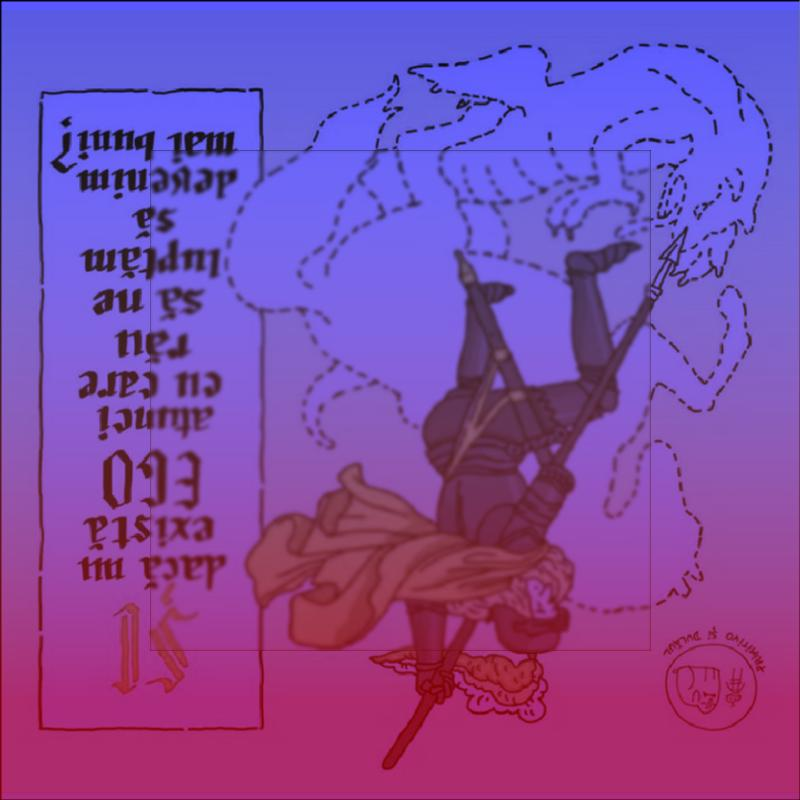
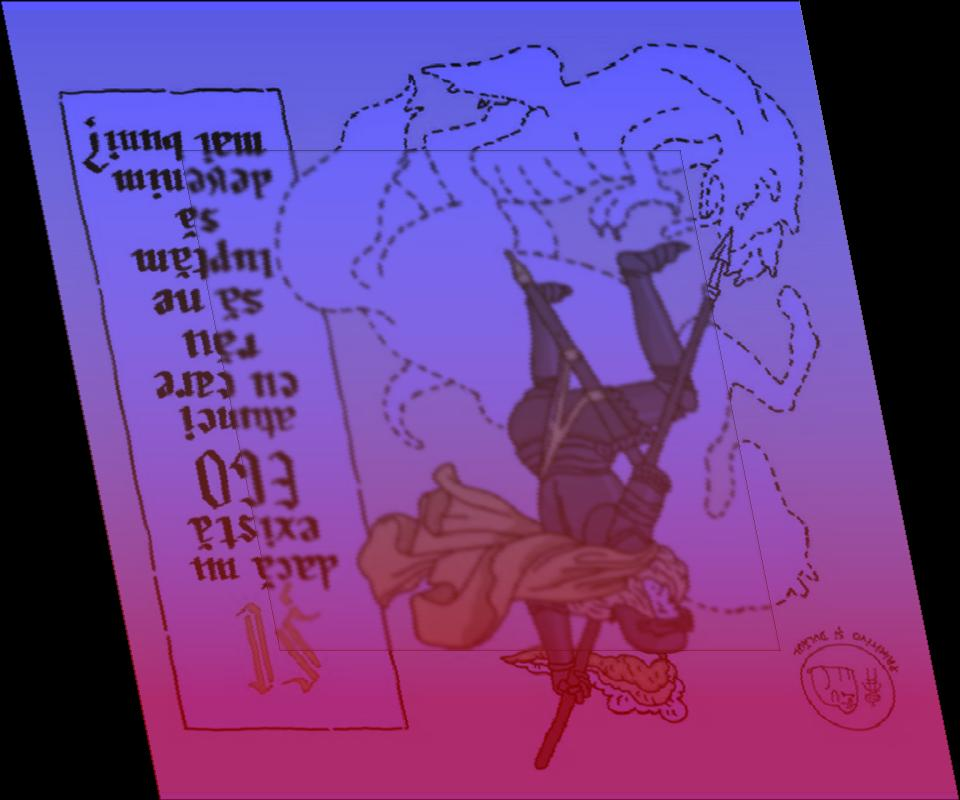
Added horizontal shearing

diff --git a/lib/shear.go b/lib/shear.go
@@ -1,0 +1,57 @@
+package lib
+
+import(
+    "fmt"
+    "image"
+    "image/draw"
+    "image/color"
+    "math"
+    interp "./interpolation"
+)
+
+/**
+    Returns an image sheared with the given shear factor.
+*/
+func Shear(img image.Image, shear float64) (image.Image) {
+    bounds := img.Bounds()
+
+    // calculate some shearing parameters
+    shear_factor := uint32(math.Round(shear * float64(bounds.Max.X - bounds.Min.X) * 2))
+    height := bounds.Max.Y - bounds.Min.Y
+    fmt.Println(bounds.Max.X, "->", bounds.Max.X + int(shear_factor))
+
+    // initialize the new image
+    new_bounds := image.Rect(bounds.Min.X, bounds.Min.Y, bounds.Max.X + int(shear_factor), bounds.Max.Y)
+    ret := image.Image(image.NewRGBA(new_bounds))
+    //ret = Modify_opacity(img, 0)
+
+    n := 10
+    done := make(chan bool, n)
+
+    for p := 0; p < n; p ++ {
+        aux_rank := p
+        go func() {
+            rank := aux_rank
+
+            for y := bounds.Min.Y + rank; y <= bounds.Max.Y; y += n {
+                proc := float64(y) / float64(height)
+                padding := int(interp.Linear_interpolation(0, shear_factor, proc))
+
+                for x := bounds.Min.X; x <= bounds.Max.X; x++ {
+                    r, g, b, a := img.At(x, y).RGBA()
+
+                    ret.(draw.Image).Set(x + padding, y, color.RGBA{uint8(r >> 8), uint8(g >> 8), uint8(b >> 8), uint8(a >> 8)})
+                }
+            }
+
+            done <- true;
+        } ()
+    }
+
+    for i := 0; i < n; i++ {
+        <-done
+    }
+
+    return ret
+
+}

diff --git a/lib/opacity.go b/lib/opacity.go
@@ -4,12 +4,13 @@ import(
     "image"
     "image/draw"
     "image/color"
+    aux "./auxiliaries"
 )
 
 /**
-    Returns a copy of the given image.
+    Returns an image with the opacity ampified by
 */
-func Copy_image(img image.Image) (image.Image) {
+func Modify_opacity(img image.Image, alpha_proc float64) (image.Image) {
     // prepare the image to be returned
     bounds := img.Bounds()
     ret := image.Image(image.NewRGBA(bounds))
@@ -26,7 +27,9 @@ func Copy_image(img image.Image) (image.Image) {
                 for x := bounds.Min.X; x <= bounds.Max.X; x++ {
                     r, g, b, a := img.At(x, y).RGBA()
 
-                    ret.(draw.Image).Set(x, y, color.RGBA{uint8(r >> 8), uint8(g >> 8), uint8(b >> 8), uint8(a >> 8)})
+                    a_fin := aux.Clamp(0, (256 << 8) - 1, uint32(alpha_proc * float64(a)))
+
+                    ret.(draw.Image).Set(x, y, color.RGBA{uint8(r >> 8), uint8(g >> 8), uint8(b >> 8), uint8(a_fin >> 8)})
                 }
             }
 

diff --git a/handler.go b/handler.go
@@ -35,6 +35,8 @@ func main() {
 
     card = lib.Merge(card, grd, image.Rect(0, 0, 800, 800))
 
+    card = lib.Shear(card, 0.1)
+
     rez, _ := os.Create("new.jpg")
     defer rez.Close()
 

diff --git a/TODO.md b/TODO.md
@@ -4,6 +4,7 @@
 - [x] Add gradient support
 - [x] Add anti-aliasing support (can be achieved through a 2x2 blur)
 - [x] Add layer merging support
+- [ ] Add shearing support
 - [ ] Add rotation support
 - [x] Add mirroring support
 - [x] Add color modifiers support
